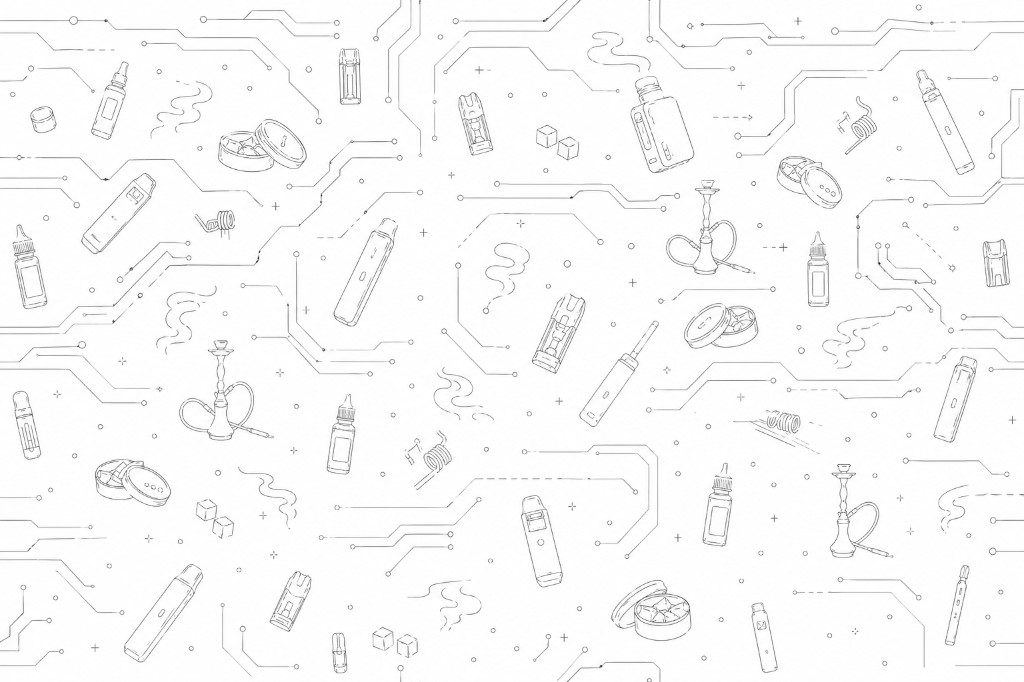
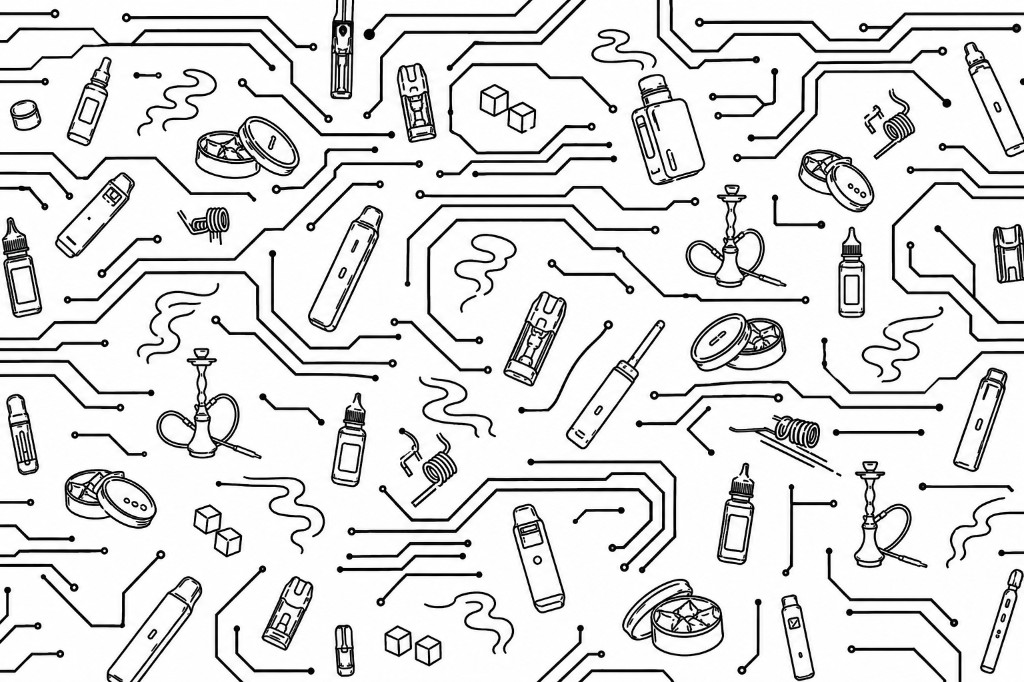
fix: restore infinite one-by-one carousel
Return product carousel to infinite single-card sliding and update bg pattern image.

Made-with: Cursor

Changed region(s): [[0.0, 0.0, 1.0, 1.0], [0.5625, 0.1232, 0.5938, 0.154]]

diff --git a/src/components/ProductCarousel.jsx b/src/components/ProductCarousel.jsx
@@ -1,4 +1,4 @@
-import { useMemo, useState, useCallback, useEffect } from 'react';
+import { useState, useCallback, useEffect, useMemo } from 'react';
 import ProductCard from './ProductCard';
 import './ProductCarousel.css';
 
@@ -16,17 +16,12 @@ function getVisibleCount() {
 
 export default function ProductCarousel({ products = [] }) {
   const safeProducts = Array.isArray(products) ? products : [];
-  const [visibleCount, setVisibleCount] = useState(VISIBLE_DESKTOP);
   const items = useMemo(() => safeProducts.slice(0, 10), [safeProducts]);
-  const pageCount = Math.max(1, Math.ceil(items.length / Math.max(1, visibleCount)));
-  const pages = useMemo(() => {
-    const result = [];
-    for (let i = 0; i < pageCount; i += 1) {
-      result.push(items.slice(i * visibleCount, (i + 1) * visibleCount));
-    }
-    return result;
-  }, [items, pageCount, visibleCount]);
-  const [pageIndex, setPageIndex] = useState(0);
+  const totalItems = items.length;
+  const extendedItems = useMemo(() => [...items, ...items, ...items], [items]);
+  const [visibleCount, setVisibleCount] = useState(VISIBLE_DESKTOP);
+  const [currentIndex, setCurrentIndex] = useState(totalItems);
+  const [isTransitioning, setIsTransitioning] = useState(true);
 
   useEffect(() => {
     const update = () => setVisibleCount(getVisibleCount());
@@ -36,49 +31,88 @@ export default function ProductCarousel({ products = [] }) {
   }, []);
 
   useEffect(() => {
-    setPageIndex(0);
-  }, [visibleCount, items.length]);
+    setIsTransitioning(false);
+    setCurrentIndex(totalItems);
+    const t = setTimeout(() => setIsTransitioning(true), 0);
+    return () => clearTimeout(t);
+  }, [visibleCount, totalItems]);
+
+  const stepPercent = extendedItems.length > 0 ? (100 / extendedItems.length) : 0;
+  const offsetPercent = currentIndex * stepPercent;
 
   const goToPage = useCallback(
-    (page) => {
-      const safePage = ((page % pageCount) + pageCount) % pageCount;
-      setPageIndex(safePage);
+    (index) => {
+      if (totalItems <= 0) return;
+      const safe = ((index % totalItems) + totalItems) % totalItems;
+      setIsTransitioning(true);
+      setCurrentIndex(totalItems + safe);
     },
-    [pageCount]
+    [totalItems]
   );
 
   const next = useCallback(() => {
-    setPageIndex((i) => (i + 1) % pageCount);
-  }, [pageCount]);
+    if (totalItems <= 1) return;
+    setIsTransitioning(true);
+    setCurrentIndex((i) => i + 1);
+  }, [totalItems]);
 
   const prev = useCallback(() => {
-    setPageIndex((i) => (i - 1 + pageCount) % pageCount);
-  }, [pageCount]);
+    if (totalItems <= 1) return;
+    setIsTransitioning(true);
+    setCurrentIndex((i) => i - 1);
+  }, [totalItems]);
 
   useEffect(() => {
-    if (pageCount <= 1) return undefined;
+    if (!isTransitioning) return;
+    if (totalItems <= 1) return;
+    const idx = currentIndex;
+    if (idx >= totalItems * 2) {
+      const timer = setTimeout(() => {
+        setIsTransitioning(false);
+        setCurrentIndex(totalItems + (idx % totalItems));
+      }, 700);
+      return () => clearTimeout(timer);
+    }
+    if (idx < totalItems) {
+      const timer = setTimeout(() => {
+        setIsTransitioning(false);
+        setCurrentIndex(totalItems + idx);
+      }, 700);
+      return () => clearTimeout(timer);
+    }
+    return undefined;
+  }, [currentIndex, isTransitioning, totalItems]);
+
+  useEffect(() => {
+    if (totalItems <= 1) return undefined;
     const timer = setInterval(next, AUTO_SLIDE_INTERVAL);
     return () => clearInterval(timer);
-  }, [next, pageCount]);
+  }, [next, totalItems]);
+
+  const activeDot = totalItems > 0
+    ? ((currentIndex - totalItems) % totalItems + totalItems) % totalItems
+    : 0;
 
   return (
     <div className="product-carousel">
       <div className="product-carousel-viewport">
         <div
           className="product-carousel-track"
-          style={{ transform: `translateX(-${pageIndex * 100}%)` }}
+          style={{
+            width: visibleCount > 0 ? `${(extendedItems.length / visibleCount) * 100}%` : '100%',
+            transform: `translateX(-${offsetPercent}%)`,
+            transition: isTransitioning
+              ? 'transform 0.7s cubic-bezier(0.22, 1, 0.36, 1)'
+              : 'none',
+          }}
         >
-          {pages.map((page, pIdx) => (
-            <div key={pIdx} className="product-carousel-page">
-              {page.map((product, i) => (
-                <div
-                  key={`${product.id}-${pIdx}-${i}`}
-                  className="product-carousel-item"
-                  style={{ flex: `0 0 ${100 / Math.max(1, visibleCount)}%` }}
-                >
-                  <ProductCard product={product} index={i} />
-                </div>
-              ))}
+          {extendedItems.map((product, i) => (
+            <div
+              key={`${product.id}-${i}`}
+              className="product-carousel-item"
+              style={{ flex: `0 0 ${100 / Math.max(1, extendedItems.length)}%` }}
+            >
+              <ProductCard product={product} index={i} />
             </div>
           ))}
         </div>
@@ -89,7 +123,7 @@ export default function ProductCarousel({ products = [] }) {
             type="button"
             className="product-carousel-arrow"
             onClick={prev}
-            aria-label="Предыдущая страница"
+            aria-label="Предыдущий товар"
           >
             ‹
           </button>
@@ -97,19 +131,19 @@ export default function ProductCarousel({ products = [] }) {
             type="button"
             className="product-carousel-arrow"
             onClick={next}
-            aria-label="Следующая страница"
+            aria-label="Следующий товар"
           >
             ›
           </button>
         </div>
         <div className="product-carousel-dots">
-          {Array.from({ length: pageCount }).map((_, i) => (
+          {Array.from({ length: totalItems }).map((_, i) => (
             <button
               key={i}
               type="button"
-              className={`product-carousel-dot ${i === pageIndex ? 'active' : ''}`}
+              className={`product-carousel-dot ${i === activeDot ? 'active' : ''}`}
               onClick={() => goToPage(i)}
-              aria-label={`Страница ${i + 1}`}
+              aria-label={`Товар ${i + 1}`}
             />
           ))}
         </div>

diff --git a/src/components/ProductCarousel.css b/src/components/ProductCarousel.css
@@ -11,13 +11,6 @@
   display: flex;
   flex-wrap: nowrap;
   will-change: transform;
-  transition: transform 0.7s cubic-bezier(0.22, 1, 0.36, 1);
-}
-
-.product-carousel-page {
-  flex: 0 0 100%;
-  display: flex;
-  flex-wrap: nowrap;
 }
 
 .product-carousel-item {
